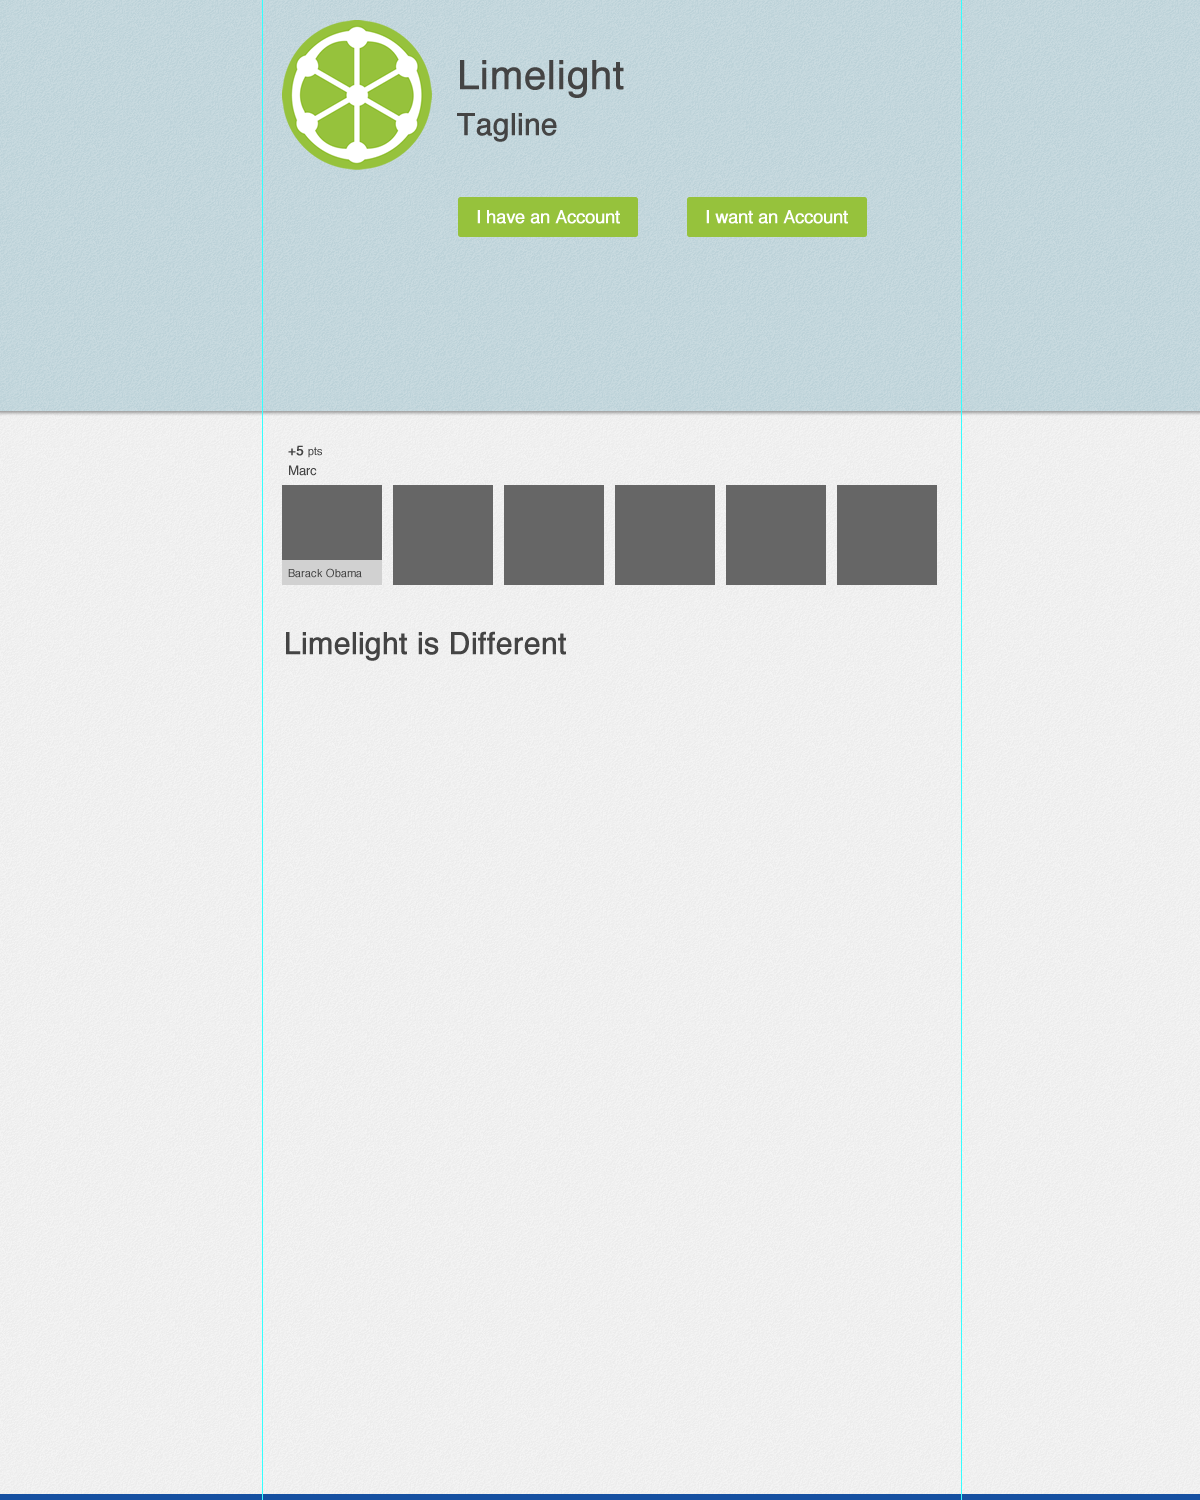
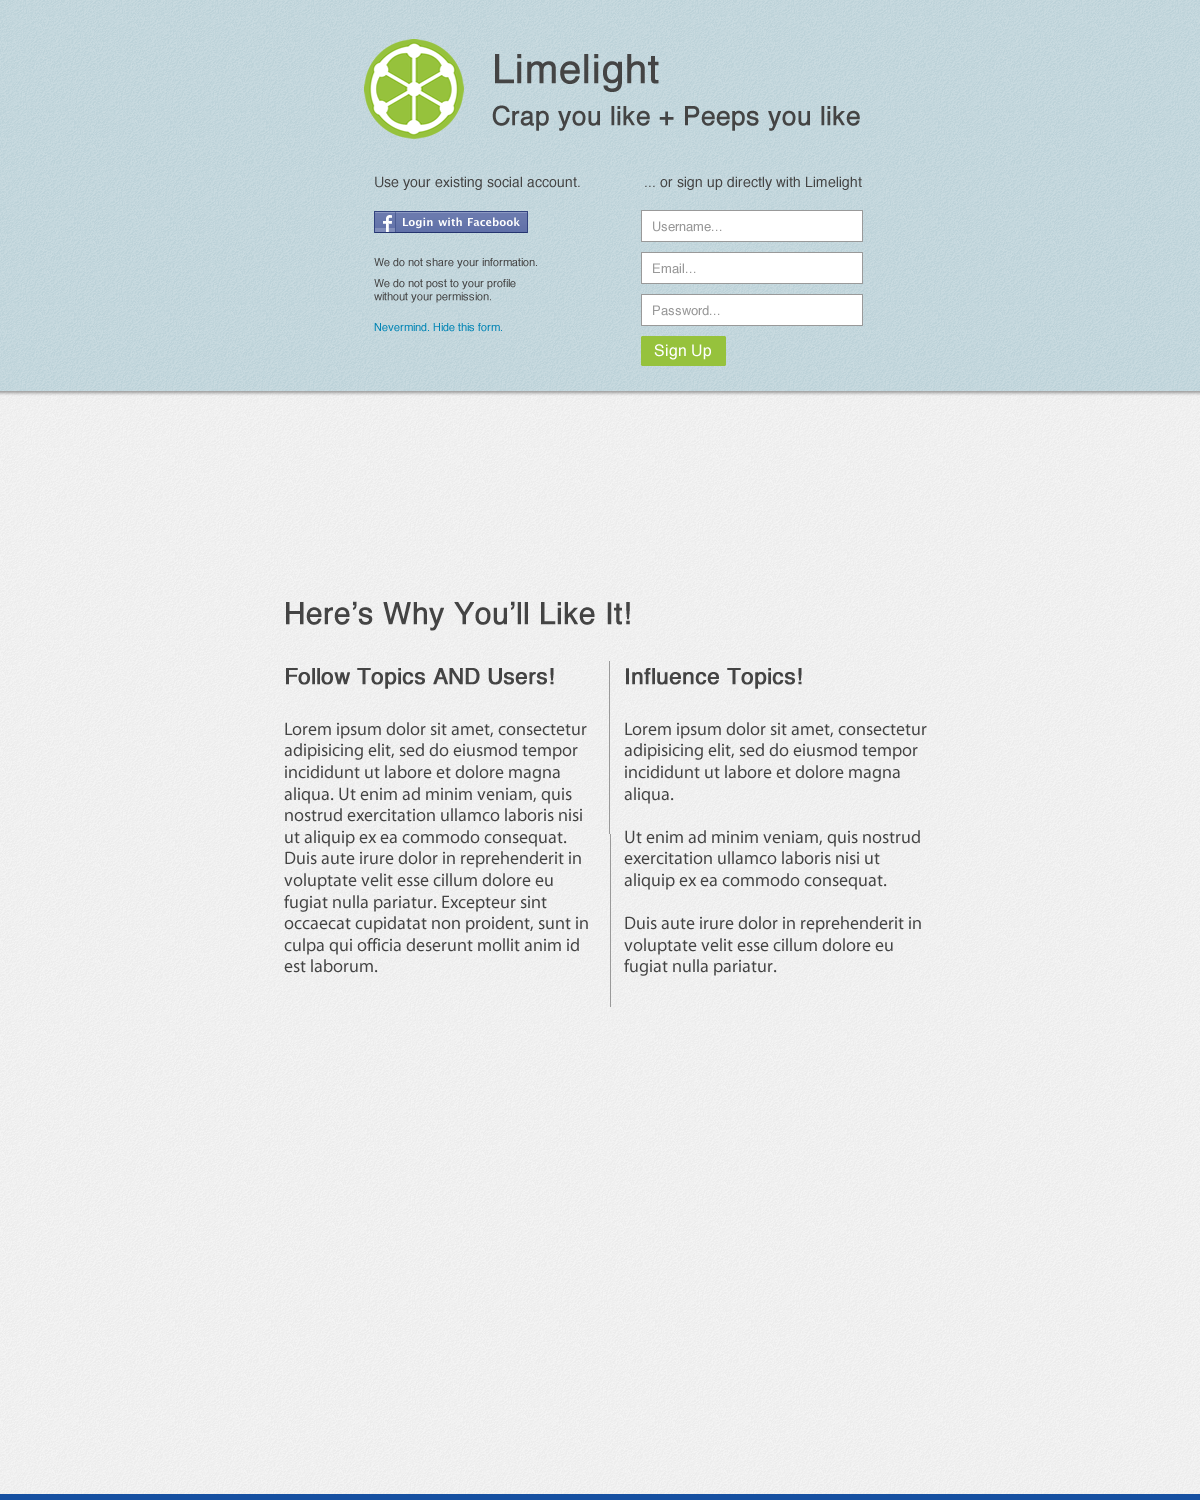
some splash, feed fixes

Changed region(s): [[0.2158, 0.3067, 0.8017, 0.644], [0.0, 0.0, 1.0, 0.276], [0.5242, 0.4293, 0.7708, 0.644]]

diff --git a/app/assets/stylesheets/splash_page.css.scss b/app/assets/stylesheets/splash_page.css.scss
@@ -1,14 +1,39 @@
 #splash-page {
+  .container {
+    width: 750px;
+    margin: auto;
+  }
   .top {
     @include single-box-shadow(#666, 0px, 1px, 3px);
     background: #B8CFD6;
+    .container {
+      width: 500px;
+    }
+    .logo-title {
+      height: 100px;
+      position: relative;
+      margin: 20px 0;
+
+      .logo {
+        position: absolute;
+      }
+      h1 {
+        position: absolute;
+        left: 120px;
+        top: 20px;
+        font-size: 40px;
+        font-weight: normal;
+      }
+      h2 {
+        position: absolute;
+        left: 120px;
+        top: 70px;
+        font-size: 26px;
+        font-weight: normal;
+      }
+    }
   }
   .bottom {
 
-  }
-  .container {
-    width: 710px;
-    padding: 0 20px;
-    margin: auto;
   }
 }

diff --git a/app/assets/stylesheets/main.css.scss b/app/assets/stylesheets/main.css.scss
@@ -603,5 +603,16 @@ header {
       line-height: 18px;
       padding: 5px 0;
     }
+    #post-form {
+      @include border-radius(6px);
+      margin-top: 10px;
+      h3 {
+        margin: 0;
+      }
+      .modal-footer {
+        background-color: transparent;
+        border: none;
+      }
+    }
   }
 }

diff --git a/app/assets/stylesheets/feeds.css.scss b/app/assets/stylesheets/feeds.css.scss
@@ -205,9 +205,6 @@ $feedFontColor: $grayDark;
   }
   .root.talk {
     padding: 10px 15px 0;
-    img {
-      z-index: 110;
-    }
   }
   .responses {
     background-color: #FBFBFB;
